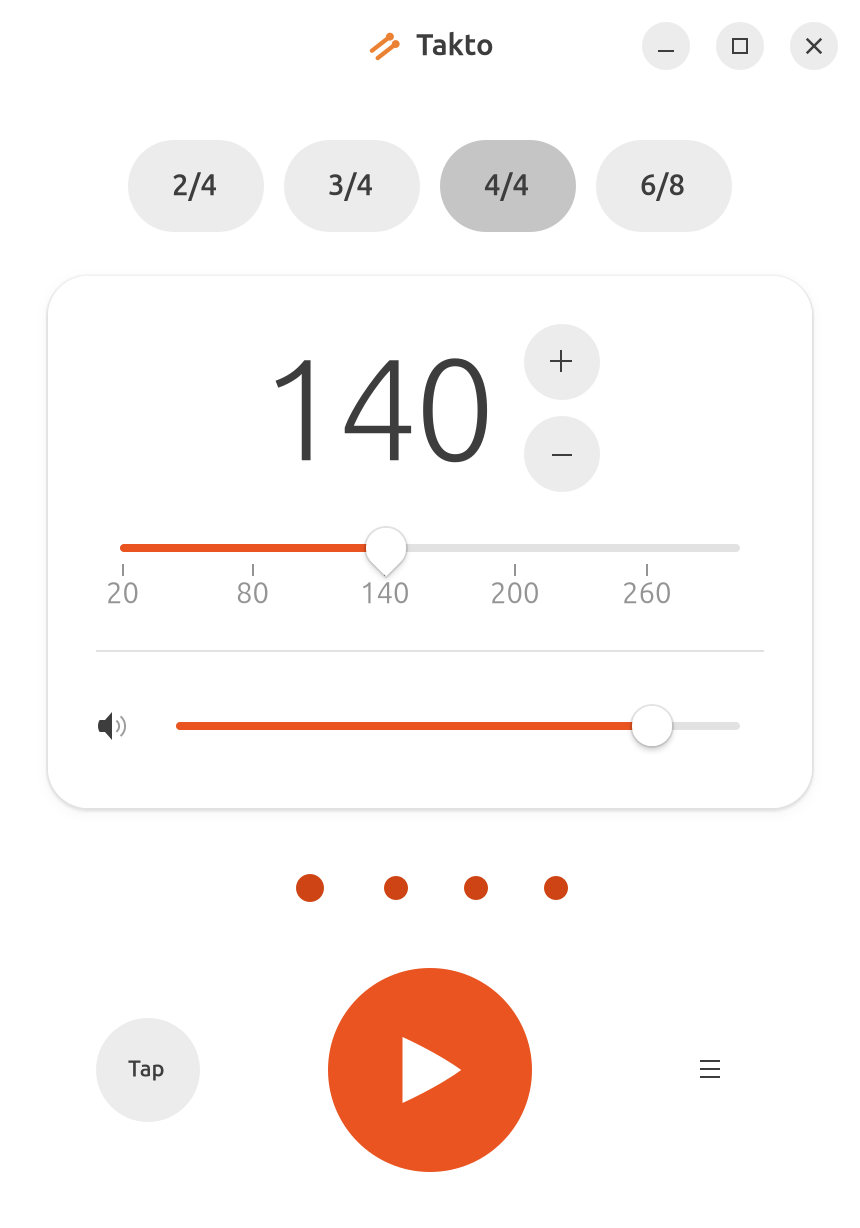
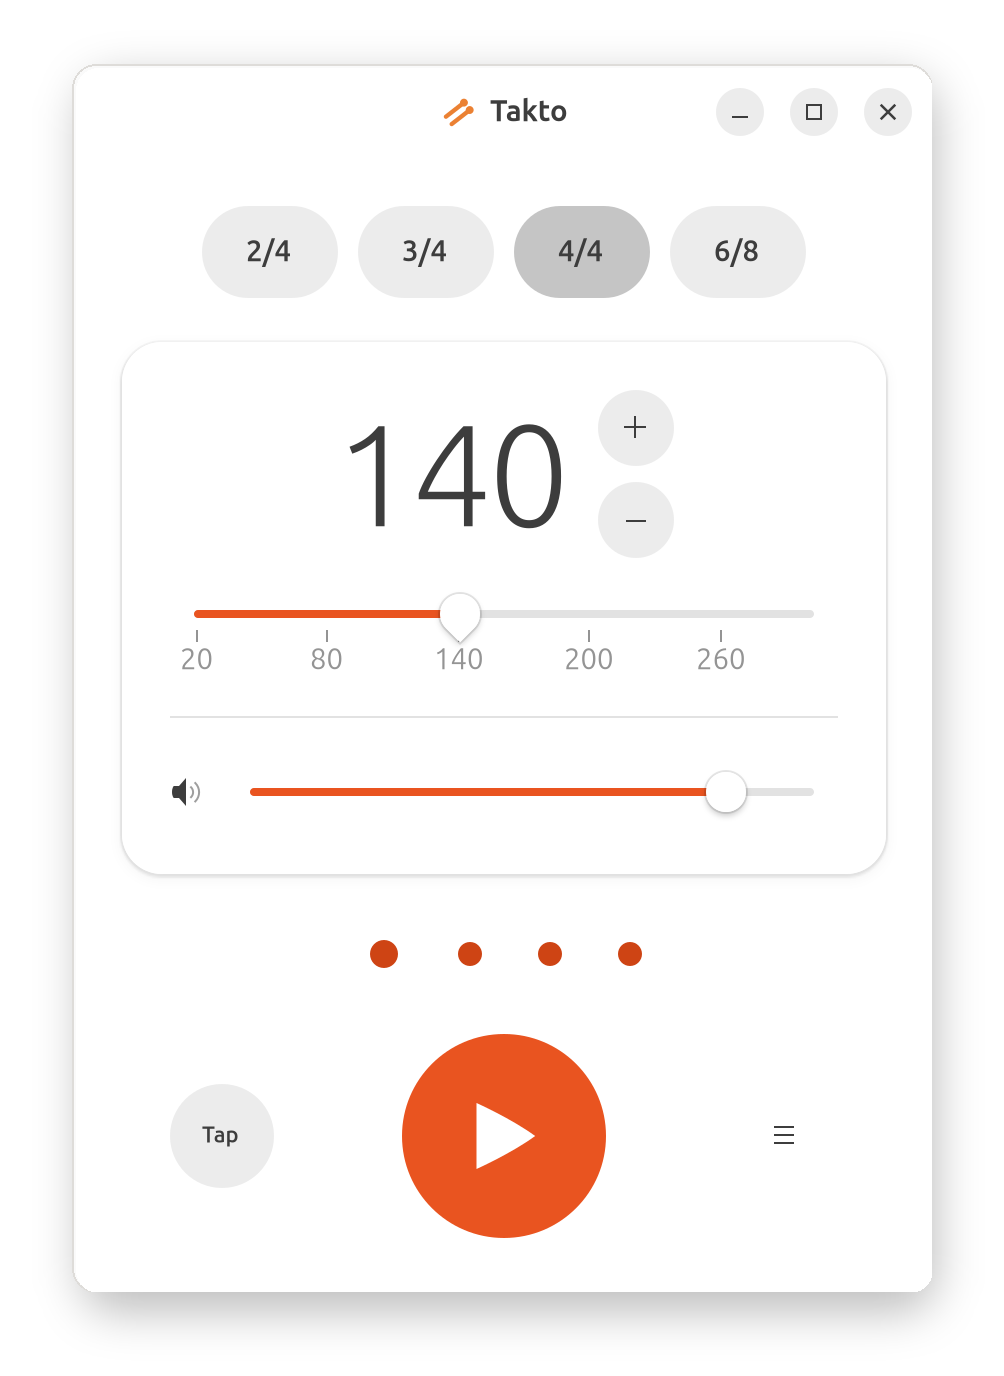
docs: frame app screenshot

diff --git a/scripts/frame-screenshot.py b/scripts/frame-screenshot.py
@@ -1,0 +1,94 @@
+#!/usr/bin/env python3
+"""Add the rounded GNOME-style window frame and drop shadow to a screenshot.
+
+Usage:
+
+    python3 scripts/frame-screenshot.py RAW_SCREENSHOT.png main-window.png
+
+The source must be the flat GTK render (without compositor margins). The output
+keeps a transparent background so the shadow looks correct in light and dark
+README themes.
+"""
+
+from __future__ import annotations
+
+import argparse
+from pathlib import Path
+
+from PIL import Image, ImageDraw, ImageFilter
+
+
+RADIUS = 24
+BORDER = 2
+MARGIN_X = 72
+MARGIN_TOP = 64
+MARGIN_BOTTOM = 84
+SHEET_COLOR = (250, 250, 250, 255)
+BORDER_COLOR = (222, 220, 217, 255)
+SHADOW_COLOR = (17, 17, 20, 255)
+SHADOW_OPACITY = 68
+
+
+def framed_image(source: Image.Image) -> Image.Image:
+    width, height = source.size
+    canvas_size = (
+        width + MARGIN_X * 2,
+        height + MARGIN_TOP + MARGIN_BOTTOM,
+    )
+    sheet_rect = (
+        MARGIN_X,
+        MARGIN_TOP,
+        MARGIN_X + width,
+        MARGIN_TOP + height,
+    )
+
+    shadow = Image.new("L", canvas_size, 0)
+    shadow_draw = ImageDraw.Draw(shadow)
+    shadow_draw.rounded_rectangle(
+        (
+            sheet_rect[0] + 10,
+            sheet_rect[1] + 16,
+            sheet_rect[2] + 2,
+            sheet_rect[3] + 18,
+        ),
+        radius=RADIUS + 8,
+        fill=SHADOW_OPACITY,
+    )
+    shadow = shadow.filter(ImageFilter.GaussianBlur(22))
+
+    canvas = Image.new("RGBA", canvas_size, (0, 0, 0, 0))
+    shadow_layer = Image.new("RGBA", canvas_size, SHADOW_COLOR)
+    canvas.paste(shadow_layer, (0, 0), shadow)
+
+    interior_mask = Image.new("L", source.size, 0)
+    ImageDraw.Draw(interior_mask).rounded_rectangle(
+        (BORDER, BORDER, width - BORDER, height - BORDER),
+        radius=RADIUS - BORDER,
+        fill=255,
+    )
+
+    window = Image.new("RGBA", source.size, (0, 0, 0, 0))
+    ImageDraw.Draw(window).rounded_rectangle(
+        (0, 0, width, height),
+        radius=RADIUS,
+        fill=SHEET_COLOR,
+        outline=BORDER_COLOR,
+        width=BORDER,
+    )
+    window.paste(source, (BORDER, BORDER), interior_mask)
+    canvas.alpha_composite(window, (MARGIN_X, MARGIN_TOP))
+    return canvas
+
+
+def main() -> None:
+    parser = argparse.ArgumentParser(description=__doc__)
+    parser.add_argument("input", type=Path, help="flat screenshot without compositor margins")
+    parser.add_argument("output", type=Path, help="framed PNG to write")
+    arguments = parser.parse_args()
+
+    source = Image.open(arguments.input).convert("RGBA")
+    framed_image(source).save(arguments.output, optimize=True)
+
+
+if __name__ == "__main__":
+    main()
